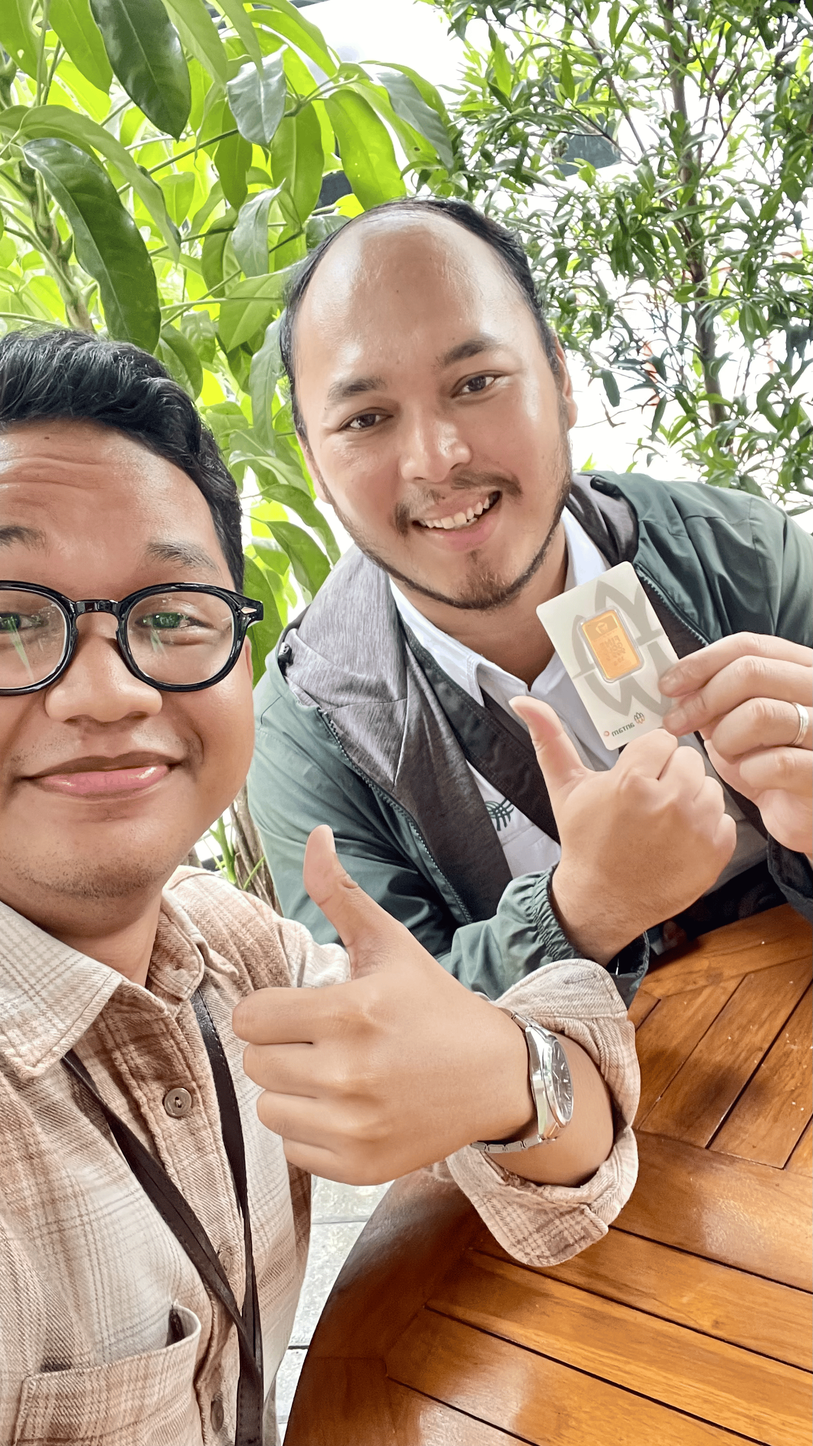
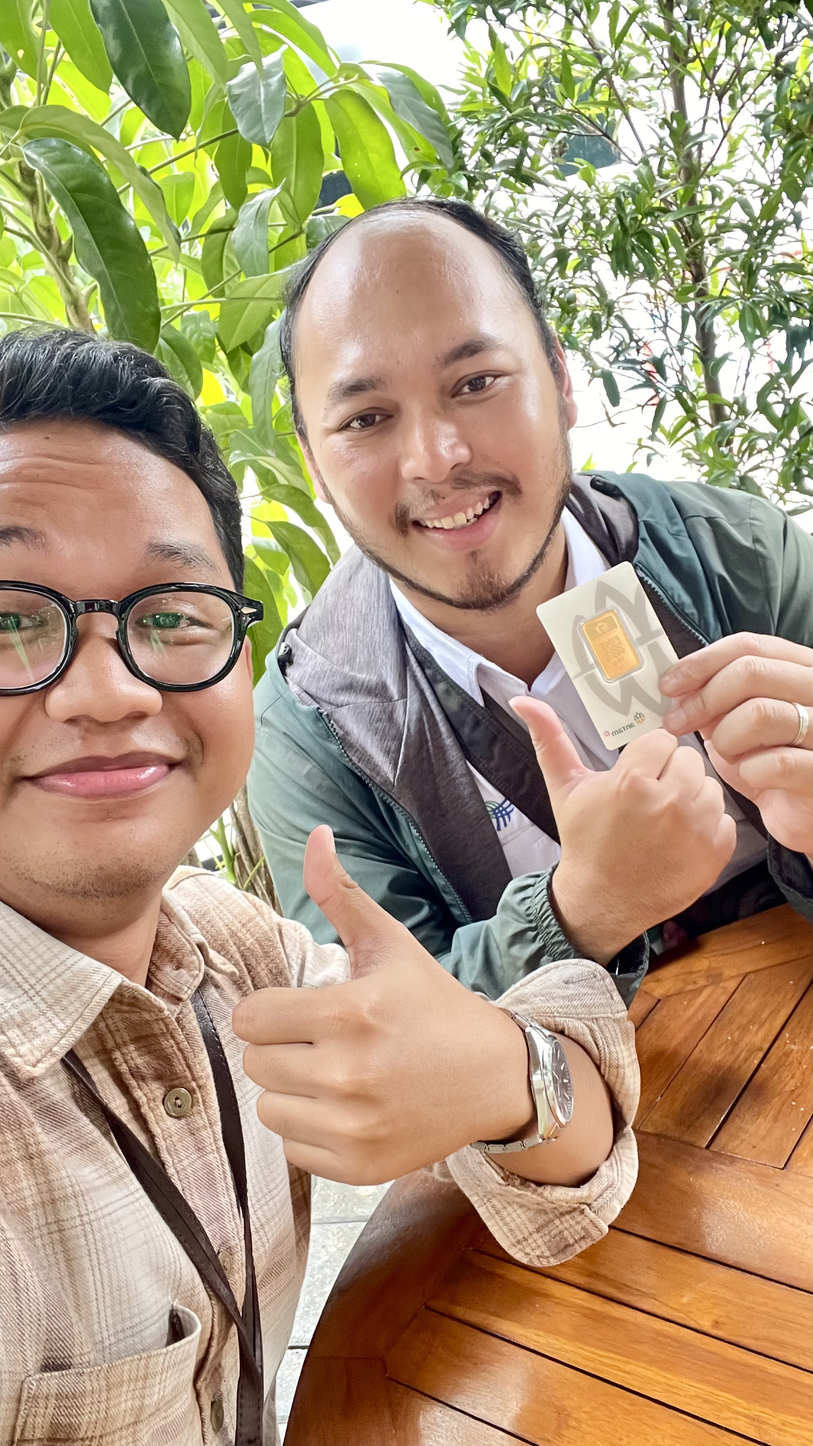
update image

Changed region(s): [[0.9948, 0.0622, 1.0, 0.0933], [0.5907, 0.5596, 0.6218, 0.5907], [0.2798, 0.2176, 0.3109, 0.2487]]

diff --git a/src/app/page.tsx b/src/app/page.tsx
@@ -18,18 +18,23 @@ export default function AdvancedEmasBungPWA() {
     { gram: 100, stock: 0, discount: 150000 },
   ]);
 
+  // 10 FOTO DOKUMENTASI COD PERMANEN DI FOLDER PUBLIC/IMAGES/
   const [gallery, setGallery] = useState([
-    { id: 1, img: "https://images.unsplash.com/photo-1610375461246-83df859d849d?auto=format&fit=crop&q=80&w=400", gram: "10g", loc: "Stasiun Klender" },
-    { id: 2, img: "https://images.unsplash.com/photo-1610375461246-83df859d849d?auto=format&fit=crop&q=80&w=400", gram: "5g", loc: "Stasiun Tebet" },
+    { id: 1, img: "/images/cod1.jpg", gram: "10g", loc: "Klender" },
+    { id: 2, img: "/images/cod22.jpg", gram: "5g", loc: "MCD Duren Sawit" },
+    { id: 3, img: "/images/cod3.jpg", gram: "25g", loc: "Rawamangun" },
+    { id: 4, img: "/images/cod4.jpg", gram: "50g", loc: "Kelapa Gading" },
+    { id: 5, img: "/images/cod5.jpg", gram: "100g", loc: "Sudirman" },
+    { id: 6, img: "/images/cod6.jpg", gram: "1g", loc: "Stasiun Cawang" },
+    { id: 7, img: "/images/cod7.jpg", gram: "2g", loc: "Matraman" },
+    { id: 8, img: "/images/cod8.jpg", gram: "5g", loc: "Kuningan" },
+    { id: 9, img: "/images/cod9.jpg", gram: "10g", loc: "BKT Jaktim" },
+    { id: 10, img: "/images/cod10.jpg", gram: "25g", loc: "Cakung" },
   ]);
 
   const [newGram, setNewGram] = useState("");
   const [newStock, setNewStock] = useState("");
   const [newDisc, setNewDisc] = useState("");
-
-  const [newGalleryImg, setNewGalleryImg] = useState("");
-  const [newGalleryGram, setNewGalleryGram] = useState("");
-  const [newGalleryLoc, setNewGalleryLoc] = useState("");
 
   const [orders, setOrders] = useState<{id: string, name: string, detail: string, status: string}[]>([]);
   const [cart, setCart] = useState<{gram: number, qty: number, price: number}[]>([]);
@@ -56,7 +61,7 @@ export default function AdvancedEmasBungPWA() {
 
   useEffect(() => {
     setIsMounted(true);
-    const savedData = localStorage.getItem("emasBungV17");
+    const savedData = localStorage.getItem("emasBungV20");
     if (savedData) {
       try {
         const parsed = JSON.parse(savedData);
@@ -141,9 +146,9 @@ export default function AdvancedEmasBungPWA() {
 
   const saveToStorage = (partialData: any) => {
     try {
-      const existing = JSON.parse(localStorage.getItem("emasBungV17") || "{}");
+      const existing = JSON.parse(localStorage.getItem("emasBungV20") || "{}");
       const dataToSave = { ...existing, basePrice, buybackPrice, inventory, gallery, orders, ...partialData };
-      localStorage.setItem("emasBungV17", JSON.stringify(dataToSave));
+      localStorage.setItem("emasBungV20", JSON.stringify(dataToSave));
     } catch (error) {
       alert("Penyimpanan lokal penuh!");
       console.error(error);
@@ -363,28 +368,22 @@ export default function AdvancedEmasBungPWA() {
         {activeTab === "galeri" && (
           <section className="p-5 animate-in fade-in duration-300 w-full overflow-hidden">
             <h2 className="text-2xl font-black tracking-tight mb-4 uppercase">Verified COD</h2>
-            {gallery.length === 0 ? (
-              <div className="bg-white border-2 border-[#111] p-8 text-center shadow-[4px_4px_0px_0px_#111]">
-                <p className="text-xs font-black uppercase text-zinc-400">Belum ada foto dokumentasi COD.</p>
-              </div>
-            ) : (
-              <div className="columns-2 gap-3 space-y-3 w-full">
-                {gallery.map((pic) => (
-                  <div key={pic.id} className="border-2 border-[#111] group bg-white shadow-[4px_4px_0px_0px_#111] mb-3 break-inside-avoid">
-                    <img 
-                      src={pic.img} 
-                      alt={`COD Emas ${pic.loc}`}
-                      onError={(e) => { e.currentTarget.src = "https://images.unsplash.com/photo-1610375461246-83df859d849d?auto=format&fit=crop&q=80&w=400"; }}
-                      className="w-full min-h-[100px] h-auto object-cover bg-zinc-200" 
-                    />
-                    <div className="p-2 border-t-2 border-[#111] bg-white flex justify-between items-center">
-                      <span className="text-[10px] font-black bg-[#e33a24] text-white px-1.5 py-0.5">{pic.gram}</span>
-                      <p className="text-[9px] font-bold truncate max-w-[80px]">📍 {pic.loc}</p>
-                    </div>
+            <div className="columns-2 gap-3 space-y-3 w-full">
+              {gallery.map((pic) => (
+                <div key={pic.id} className="border-2 border-[#111] group bg-white shadow-[4px_4px_0px_0px_#111] mb-3 break-inside-avoid">
+                  <img 
+                    src={pic.img} 
+                    alt={`COD Emas ${pic.loc}`}
+                    onError={(e) => { e.currentTarget.src = "https://images.unsplash.com/photo-1610375461246-83df859d849d?auto=format&fit=crop&q=80&w=400"; }}
+                    className="w-full min-h-[100px] h-auto object-cover bg-zinc-200" 
+                  />
+                  <div className="p-2 border-t-2 border-[#111] bg-white flex justify-between items-center">
+                    <span className="text-[10px] font-black bg-[#e33a24] text-white px-1.5 py-0.5">{pic.gram}</span>
+                    <p className="text-[9px] font-bold truncate max-w-[80px]">📍 {pic.loc}</p>
                   </div>
-                ))}
-              </div>
-            )}
+                </div>
+              ))}
+            </div>
           </section>
         )}
 
@@ -602,39 +601,14 @@ export default function AdvancedEmasBungPWA() {
 
             {adminTab === 'gallery' && (
               <div className="space-y-4">
-                <div className="bg-white p-4 border-4 border-[#111] shadow-[4px_4px_0px_0px_#111] space-y-3">
-                  <h3 className="font-black text-xs uppercase text-[#e33a24]">Tambah Foto COD Baru (URL)</h3>
-                  <div>
-                    <label className="text-[9px] font-black uppercase text-zinc-500 block mb-1">Link URL Foto:</label>
-                    <input 
-                      type="text" 
-                      placeholder="https://images.unsplash.com/... atau link gambar" 
-                      value={newGalleryImg} 
-                      onChange={(e)=>setNewGalleryImg(e.target.value)} 
-                      className="w-full border-2 border-[#111] p-2 text-xs font-bold bg-white" 
-                    />
-                  </div>
-                  <div className="grid grid-cols-2 gap-2">
-                    <input type="text" placeholder="Gram (cth: 10g)" value={newGalleryGram} onChange={(e)=>setNewGalleryGram(e.target.value)} className="border-2 border-[#111] p-2 text-xs font-bold" />
-                    <input type="text" placeholder="Lokasi (cth: Stasiun Klender)" value={newGalleryLoc} onChange={(e)=>setNewGalleryLoc(e.target.value)} className="border-2 border-[#111] p-2 text-xs font-bold" />
-                  </div>
-                  <button onClick={()=>{
-                    if(!newGalleryImg || !newGalleryLoc) return alert("Isi URL foto dan lokasi dengan benar!");
-                    setGallery([{ id: Date.now(), img: newGalleryImg, gram: newGalleryGram || "5g", loc: newGalleryLoc }, ...gallery]);
-                    setNewGalleryImg(""); setNewGalleryGram(""); setNewGalleryLoc("");
-                    alert("Foto galeri berhasil ditambahkan!");
-                  }} className="w-full bg-[#111] text-white py-2 font-black text-xs uppercase">
-                    + Tambah Foto Galeri
-                  </button>
-                </div>
-
                 <div className="bg-white p-4 border-4 border-[#111] shadow-[4px_4px_0px_0px_#111]">
-                  <h3 className="font-black text-xs uppercase mb-3 text-[#e33a24]">Daftar Foto Galeri Saat Ini</h3>
+                  <h3 className="font-black text-xs uppercase mb-3 text-[#e33a24]">Kelola Foto Galeri (10 Slot Permanen)</h3>
+                  <p className="text-[10px] font-bold text-zinc-600 mb-3">Pastikan ke-10 foto asli kamu sudah dimasukkan ke folder <code className="bg-zinc-100 px-1 py-0.5 border border-[#111]">public/images/</code> dengan nama file <code className="bg-zinc-100 px-1 py-0.5 border border-[#111]">cod1.jpg</code> sampai <code className="bg-zinc-100 px-1 py-0.5 border border-[#111]">cod10.jpg</code>.</p>
                   <div className="space-y-2 max-h-60 overflow-y-auto">
                     {gallery.map((pic) => (
                       <div key={pic.id} className="flex items-center justify-between py-2 border-b-2 border-zinc-100 text-xs">
-                        <span className="font-black">{pic.gram} - {pic.loc}</span>
-                        <button onClick={()=>{setGallery(gallery.filter(g => g.id !== pic.id))}} className="bg-red-500 text-white font-black px-2 py-1 text-[10px] border border-[#111]">Hapus</button>
+                        <span className="font-black truncate max-w-[180px]">{pic.img}</span>
+                        <span className="text-[10px] bg-[#e33a24] text-white px-1.5 py-0.5 font-bold">{pic.gram} • {pic.loc}</span>
                       </div>
                     ))}
                   </div>
